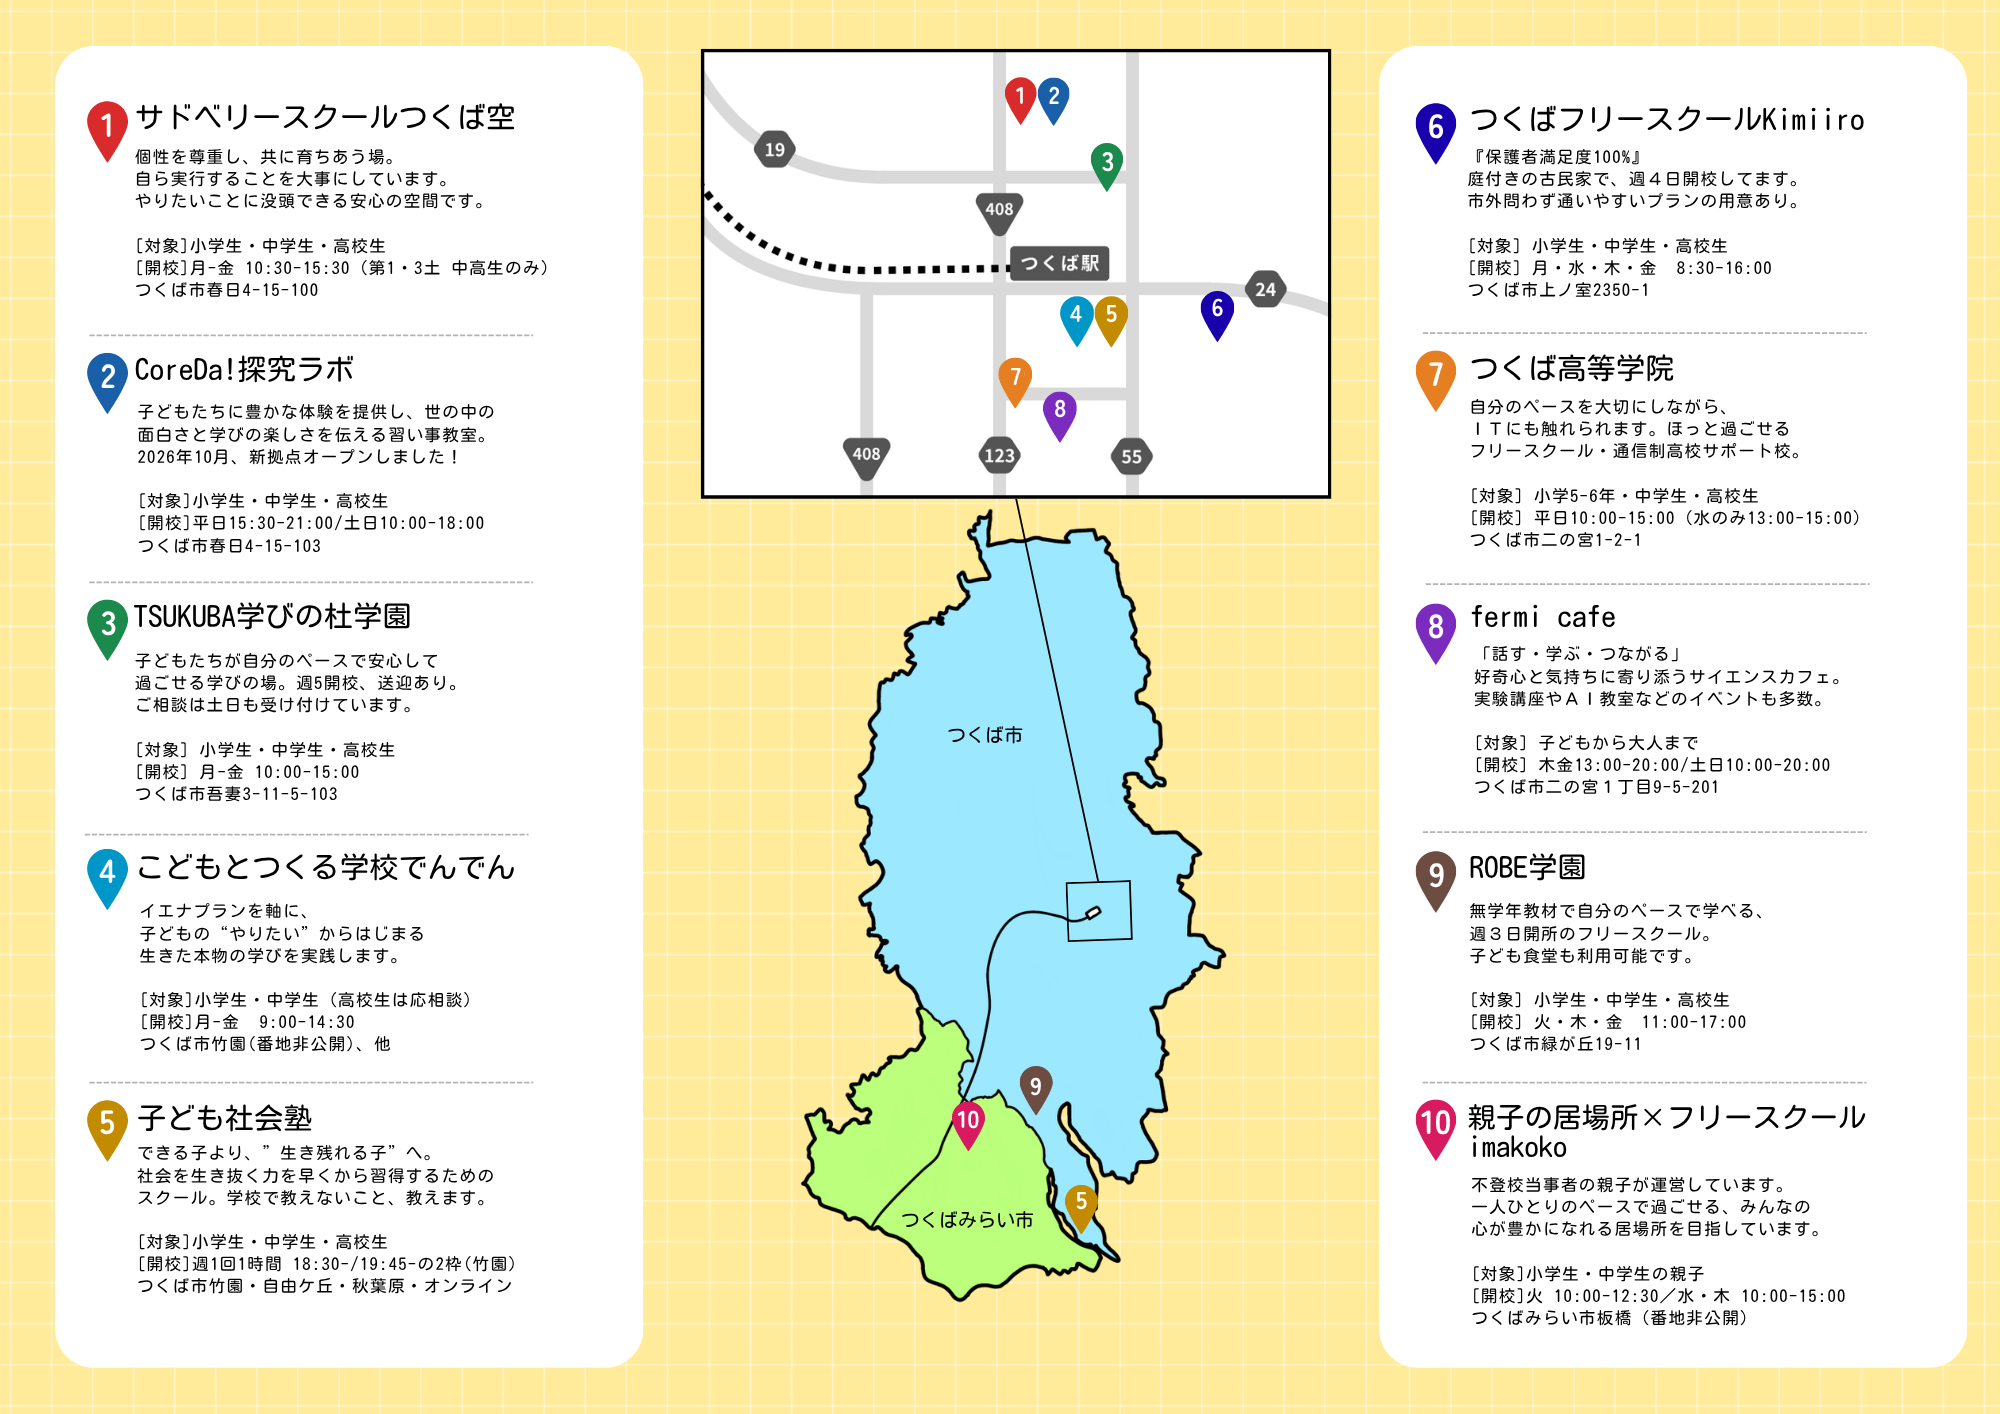
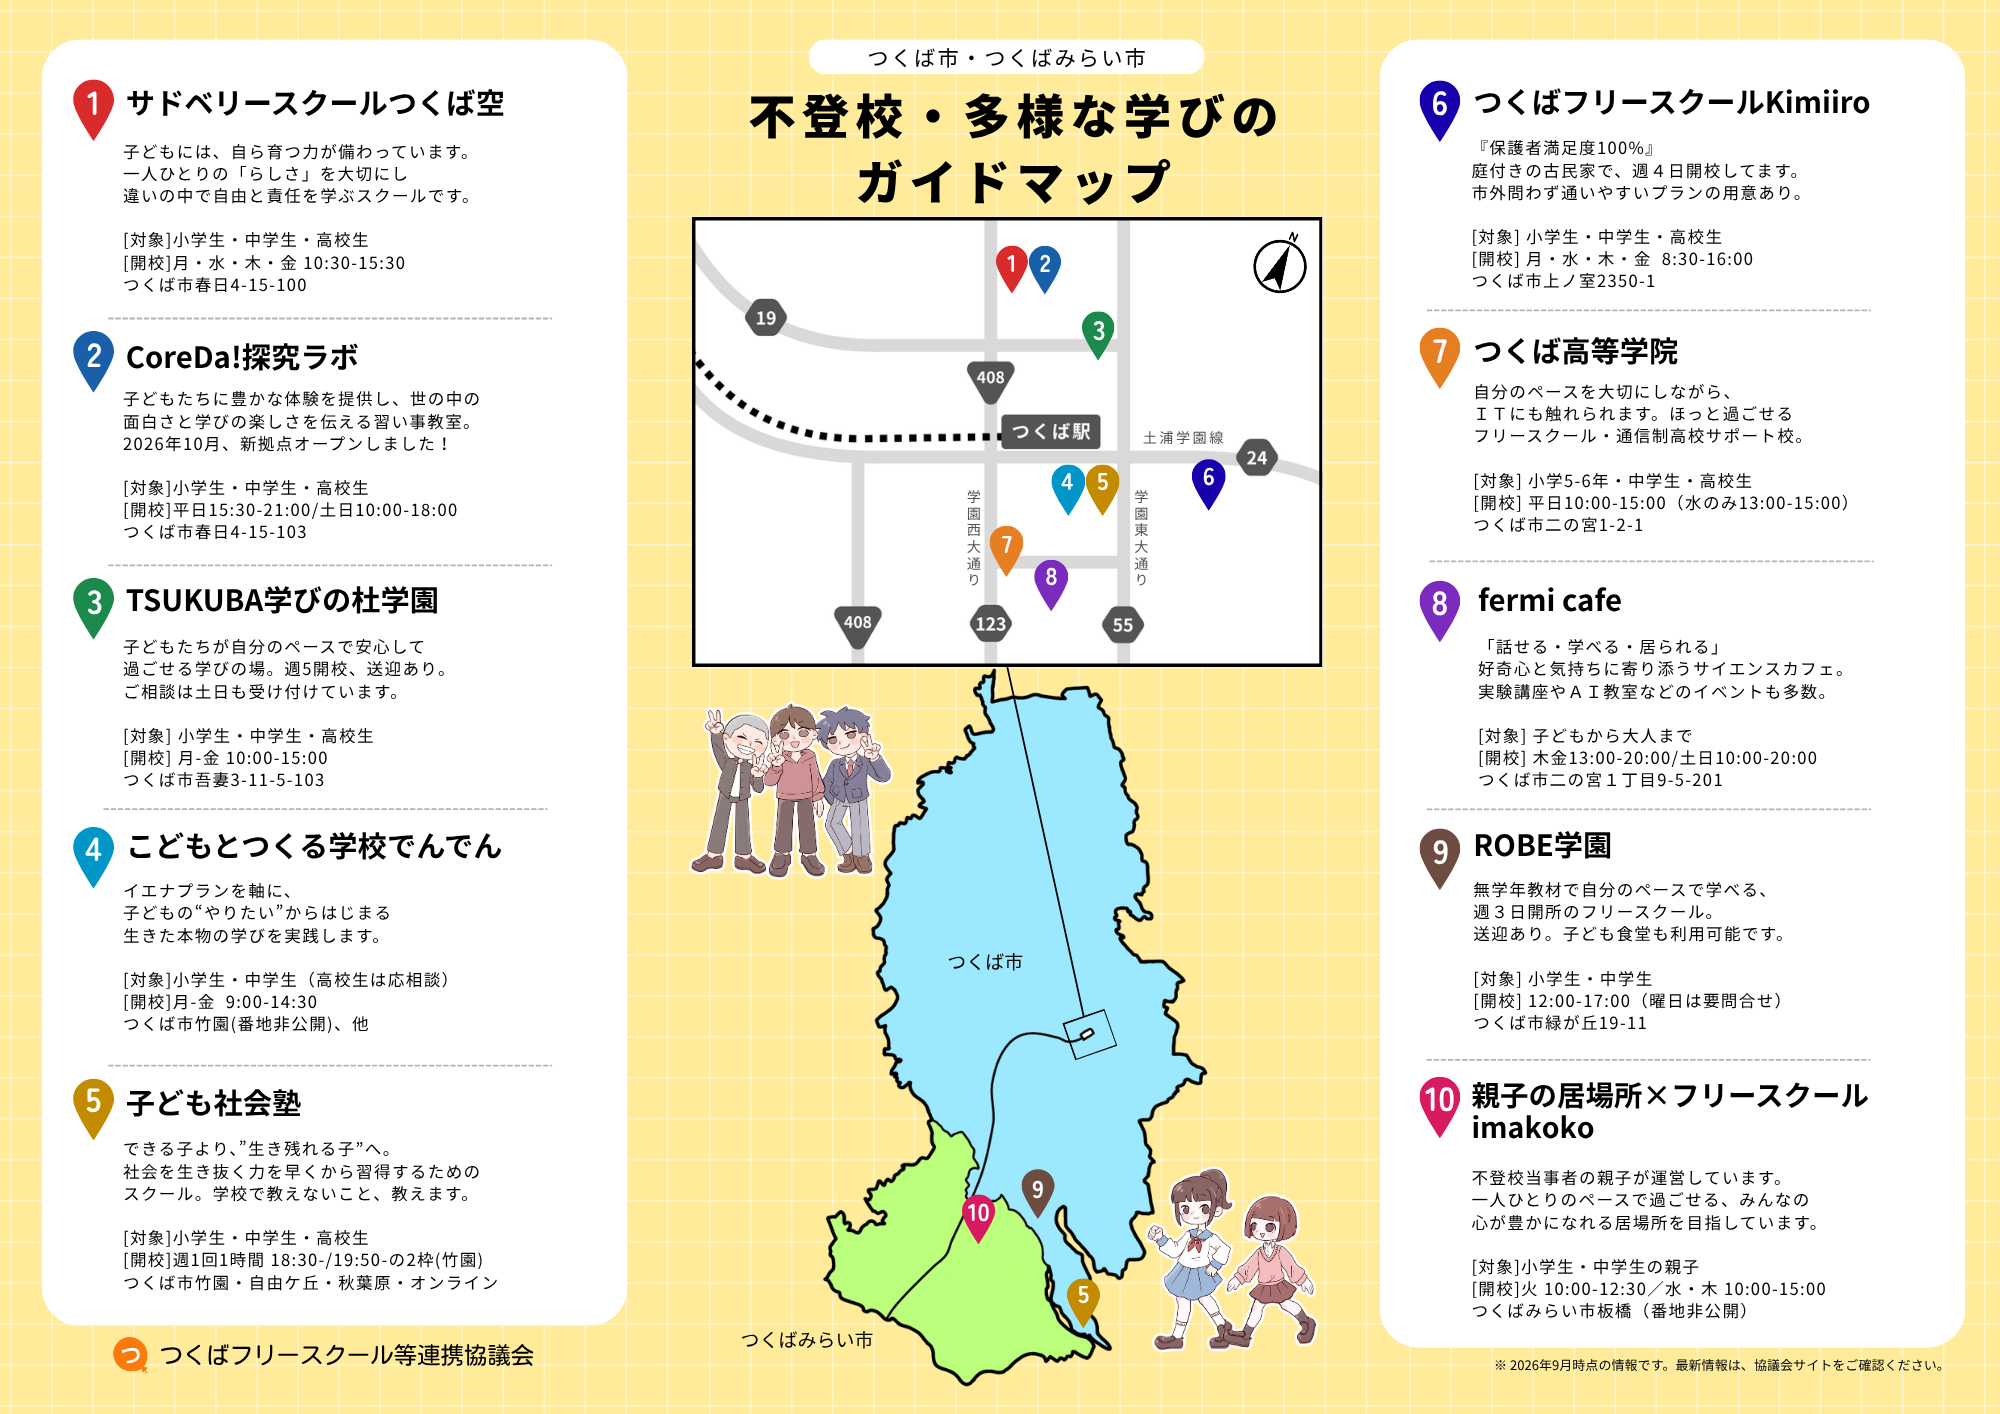
トップページ: パンフレットの空の青グラデーション、白い見出し、child02のイラストを配置

Changed region(s): [[0.0, 0.0, 0.992, 0.9958]]

diff --git a/client/src/pages/Home.tsx b/client/src/pages/Home.tsx
@@ -19,7 +19,7 @@ const schools = [
 function Header(){const [open,setOpen]=useState(false); return <header className="site-header"><a href="/" className="brand"><img className="brand-logo" src="/assets/council-logo.png" alt="つくばフリースクール等連携協議会"/><span><b>つくばフリースクール等連携協議会</b><small>TSUKUBA FREE SCHOOL NETWORK</small></span></a><button className="mobile-toggle" onClick={()=>setOpen(!open)}>{open?<X/>:<Menu/>}</button><nav className={open?"open":""}><a href="#schools" onClick={()=>setOpen(false)}>参加スクール</a><a href="/lecturers">出張講師</a><a href="/faq">よくある質問</a><a href="/parents">保護者の方へ</a><a href="/about">協議会について</a></nav><a className="header-cta" href="/parents">保護者の方へ <span>→</span></a></header>}
 function Footer(){return <footer><div className="footer-inner"><div><div className="brand footer-brand"><img className="brand-logo" src="/assets/council-logo-footer.png" alt="つくばフリースクール等連携協議会"/><span><b>つくばフリースクール等連携協議会</b><small>TSUKUBA FREE SCHOOL NETWORK</small></span></div><p>子ども一人ひとりが、自分に合った<br/>学びの場とつながれる地域へ。</p></div><div className="footer-links"><a href="/about">協議会について</a><a href="/join">ご参加について</a><a href="/faq">よくある質問</a><a href="/parents">お問い合わせ</a></div></div><div className="copyright">© TSUKUBA FREE SCHOOL NETWORK</div></footer>}
 function SchoolCard({school, id}:{school:typeof schools[number]; id?:string}){return <article id={id} className={`school-card ${school.tone}`}><div className="school-body"><div className="card-meta"><span><MapPin size={13}/>{school.area}</span></div><h3>{school.name}</h3><p>{school.comment}</p><div className="school-tags"><span>{school.target}</span>{school.insta&&<a href={school.insta} target="_blank"><Instagram size={14}/></a>}{school.site!=="#"&&<a href={school.site} target="_blank"><ArrowUpRight size={15}/></a>}</div></div></article>}
-export default function Home(){const [areaFilter,setAreaFilter]=useState<"all"|"tsukuba"|"mirai">("all"); const visibleSchools=schools.filter(s=>areaFilter==="all"||(areaFilter==="mirai"?s.area.startsWith("つくばみらい市"):s.area.startsWith("つくば市"))); const chooseArea=(area:"all"|"tsukuba"|"mirai")=>{setAreaFilter(area); if(area==="mirai") window.setTimeout(()=>document.getElementById("imakoko")?.scrollIntoView({behavior:"smooth",block:"center"}),50)}; return <div className="site-page"><Header/><main><section className="hero"><div className="hero-copy"><p className="eyebrow">TSUKUBA FREE SCHOOL NETWORK</p><h1>学校以外の<br/><em>学びの場・居場所を</em><br/>探している方へ</h1><p className="hero-lead">つくばフリースクール等連携協議会は、<br/>学校の外にあるまなびの場と、<br/>子どもたち・ご家族をつなぐネットワークです。</p><div className="hero-actions"><a className="button button-primary" href="#schools">参加スクール一覧 <span>↓</span></a></div></div><div className="hero-art"><div className="hero-illustration-placeholder"><span>MAIN VISUAL</span><b>イラスト掲載予定</b><small>完成したイラストをここに配置します</small></div></div></section>
+export default function Home(){const [areaFilter,setAreaFilter]=useState<"all"|"tsukuba"|"mirai">("all"); const visibleSchools=schools.filter(s=>areaFilter==="all"||(areaFilter==="mirai"?s.area.startsWith("つくばみらい市"):s.area.startsWith("つくば市"))); const chooseArea=(area:"all"|"tsukuba"|"mirai")=>{setAreaFilter(area); if(area==="mirai") window.setTimeout(()=>document.getElementById("imakoko")?.scrollIntoView({behavior:"smooth",block:"center"}),50)}; return <div className="site-page"><Header/><main><section className="hero"><div className="hero-copy"><p className="eyebrow">TSUKUBA FREE SCHOOL NETWORK</p><h1>学校以外の<br/><em>学びの場・居場所を</em><br/>探している方へ</h1><p className="hero-lead">つくばフリースクール等連携協議会は、<br/>学校の外にあるまなびの場と、<br/>子どもたち・ご家族をつなぐネットワークです。</p><div className="hero-actions"><a className="button button-primary" href="#schools">参加スクール一覧 <span>↓</span></a></div></div><div className="hero-art"><img className="hero-child" src="/assets/child02.png" alt="フリースクールへ向かう子どもたち" /></div></section>
 
 		<section className="letter-section"><div className="section-heading"><div><p className="eyebrow">MONTHLY LETTER</p><h2>つくば不登校・<em>多様な学びだより</em></h2></div></div><div className="letter-card"><div className="letter-image-slot letter-image-ready"><LetterViewer src="/assets/tayori-2026-10.png" alt="つくば不登校・多様な学びだより 2026年10月号" downloadName="tayori-2026-10.png" shareText="つくば周辺のフリースクール・オルタナティブスクールなどの、最新の空き状況をシェアします。#つくばフリースクール等連携協議会"/></div><div className="letter-copy"><p className="month">2026.10</p><h3>2026年10月号</h3><p>参加スクールの一言コメントと空き状況を、毎月まとめてお届けします。</p><span className="pill">空き状況・イベント情報を掲載</span><a className="letter-pickup" href="https://note.com/tfc298/n/n715b43550966" target="_blank" rel="noreferrer">ピックアップ「子ども社会塾」の詳細はこちら →</a></div><div className="letter-lines"><span></span><span></span><span></span></div></div><a href="/letters" className="archive-link">過去に発行された「たより」を見る <span>→</span></a></section>
 		<section className="schools-section" id="schools"><div className="section-heading"><div><p className="eyebrow">SCHOOLS & PLACES</p><h2>参加スクール一覧</h2><p className="section-lead">それぞれの場所に、それぞれの学び方。<br/>気になるところから、公式サイトをのぞいてみてください。</p></div><div className="filter-tags"><button type="button" className={areaFilter==="all"?"active":""} onClick={()=>chooseArea("all")}>すべて</button><button type="button" className={areaFilter==="tsukuba"?"active":""} onClick={()=>chooseArea("tsukuba")}>つくば市</button><button type="button" className={areaFilter==="mirai"?"active":""} onClick={()=>chooseArea("mirai")}>つくばみらい市</button></div></div><div className="schools-grid">{visibleSchools.map(s=><SchoolCard key={s.name} id={s.name.includes("imakoko")?"imakoko":undefined} school={s}/>)}</div><div className="map-note"><LetterViewer src={storageImage} alt="参加団体の位置を示した地図" downloadName="tsukuba-freeschool-map.png" shareText="つくば周辺のフリースクール・オルタナティブスクールなどの参加団体マップです。#つくばフリースクール等連携協議会"/><div><p className="eyebrow">AT A GLANCE</p><h3>マップから探す</h3><p>パンフレットには、各スクールの所在地と特徴をまとめています。詳細は各公式サイトをご確認ください。</p></div></div></section><section className="quick"><div className="quick-label">あなたに合わせた<br/><b>入口</b>から</div><a href="/parents"><span className="quick-no">01</span><b>保護者の方へ</b><small>相談したい、話を聞いてほしい</small><strong>→</strong></a><a href="/faq"><span className="quick-no">02</span><b>よくある質問</b><small>費用や通い方を知りたい</small><strong>→</strong></a><a href="/join"><span className="quick-no">03</span><b>団体の方へ</b><small>スクールを掲載・参加したい</small><strong>→</strong></a></section>

diff --git a/client/src/index.css b/client/src/index.css
@@ -100,3 +100,11 @@ body{
 .keyword-filter{display:flex;flex-wrap:wrap;gap:8px;margin:24px 0 0}.keyword-chip{border:1px solid #cfe0d6;background:#fff;border-radius:999px;padding:6px 14px;font-size:13px;color:var(--muted);cursor:pointer;font-family:inherit}.keyword-chip:hover{border-color:#d9b24a}.keyword-chip.active{background:#fff0c5;border-color:#d9b24a;color:#7a5a16;font-weight:700}.keyword-count{font-size:13px;color:var(--muted);margin:14px 0 0}
 .lecturer-actions .button-outline{display:inline-flex;align-items:center;justify-content:center;background:#fff;color:var(--coral);border:2px solid var(--coral);border-radius:999px;padding:12px 28px;font-weight:700;text-decoration:none}.lecturer-actions .button-outline:hover{background:var(--coral);color:#fff}
 .external-action{display:flex;align-items:center;gap:12px;flex-wrap:wrap}.external-action small{font-size:13px;color:var(--muted)}
+
+/* トップの空: パンフレットの空の青(上 #17A5F7 → 下 #9ED8F9)に合わせたグラデーション */
+.hero{isolation:isolate}
+.hero::before{content:"";position:absolute;top:0;bottom:0;left:50%;width:100vw;transform:translateX(-50%);background:linear-gradient(180deg,#17A5F7 0%,#2BACF7 10%,#3FB4F7 20%,#51BAF9 30%,#65C2F9 40%,#79CAF9 50%,#8DD1FA 60%,#9ED8F9 70%,#EAF8FC 100%);z-index:-1}
+.hero .eyebrow,.hero h1,.hero h1 em,.hero .hero-lead{color:#fff}
+.hero h1 em:after{background:#FFD54F}
+.hero-child{display:block;width:min(420px,90%);height:auto;margin:0 auto;filter:drop-shadow(0 14px 22px rgba(15,80,120,.25))}
+@media(max-width:800px){.hero-child{width:260px}}
